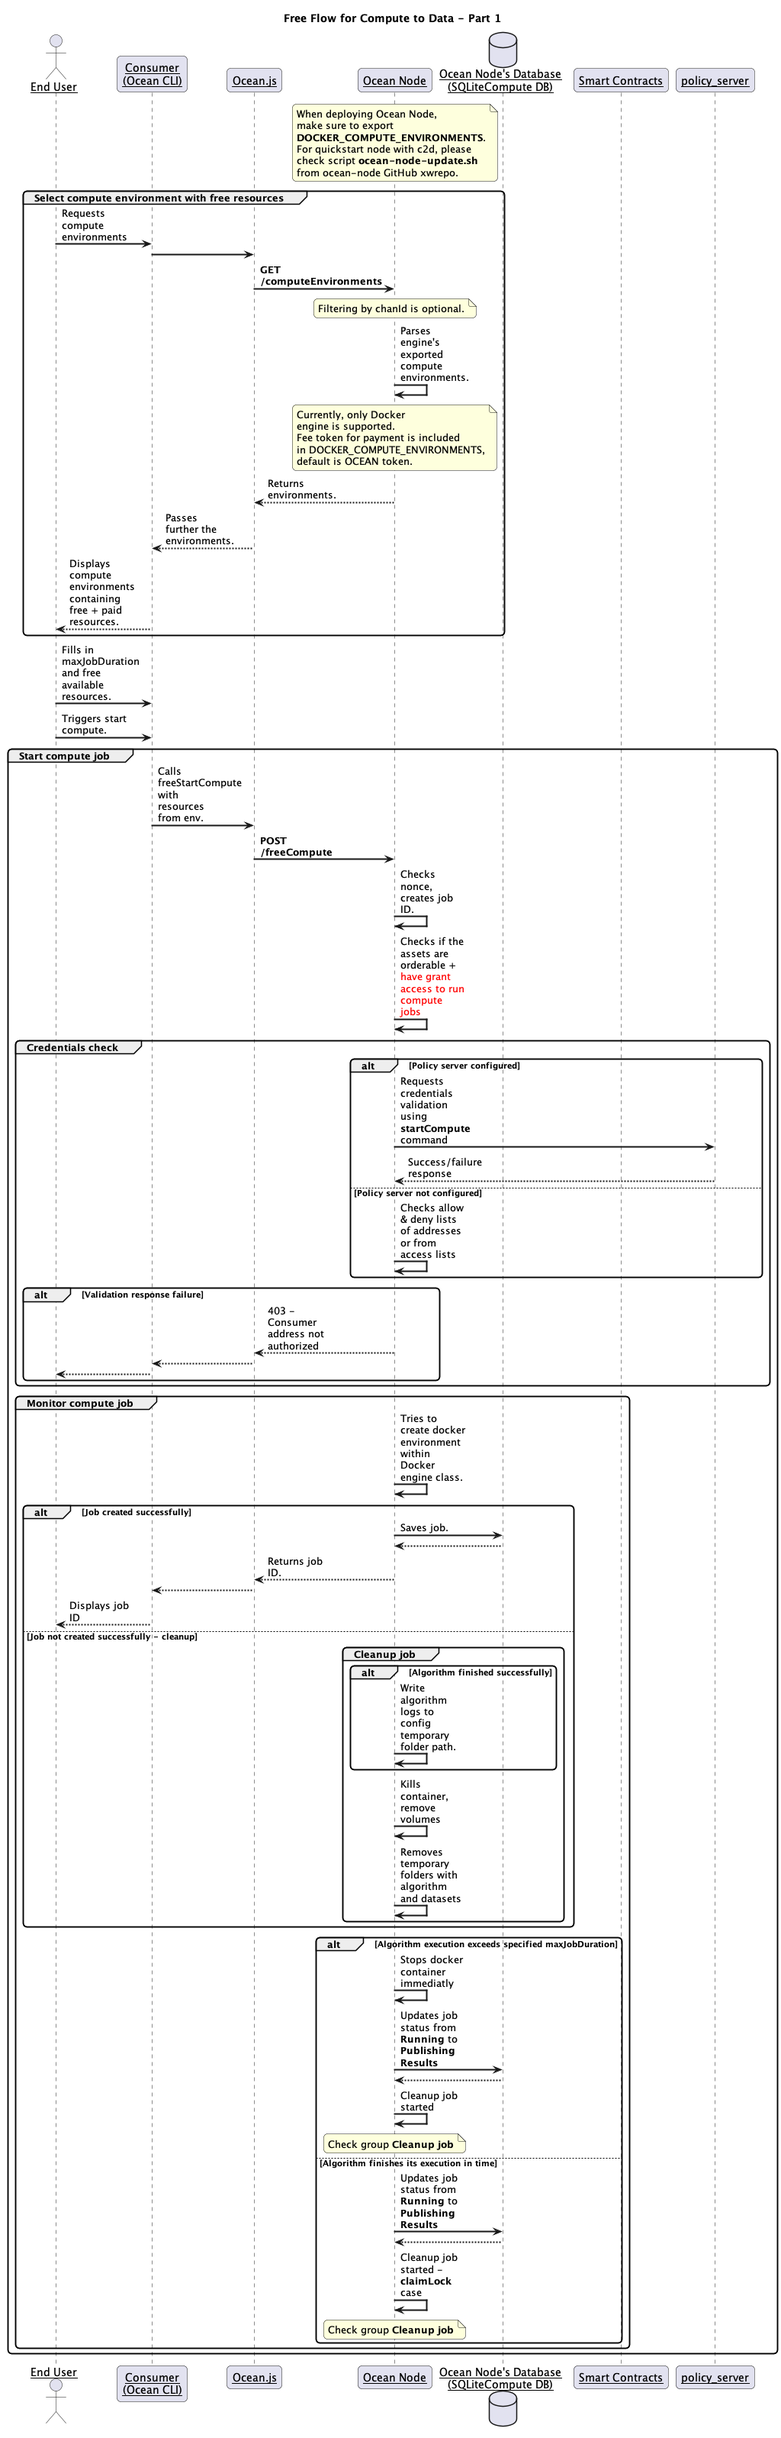
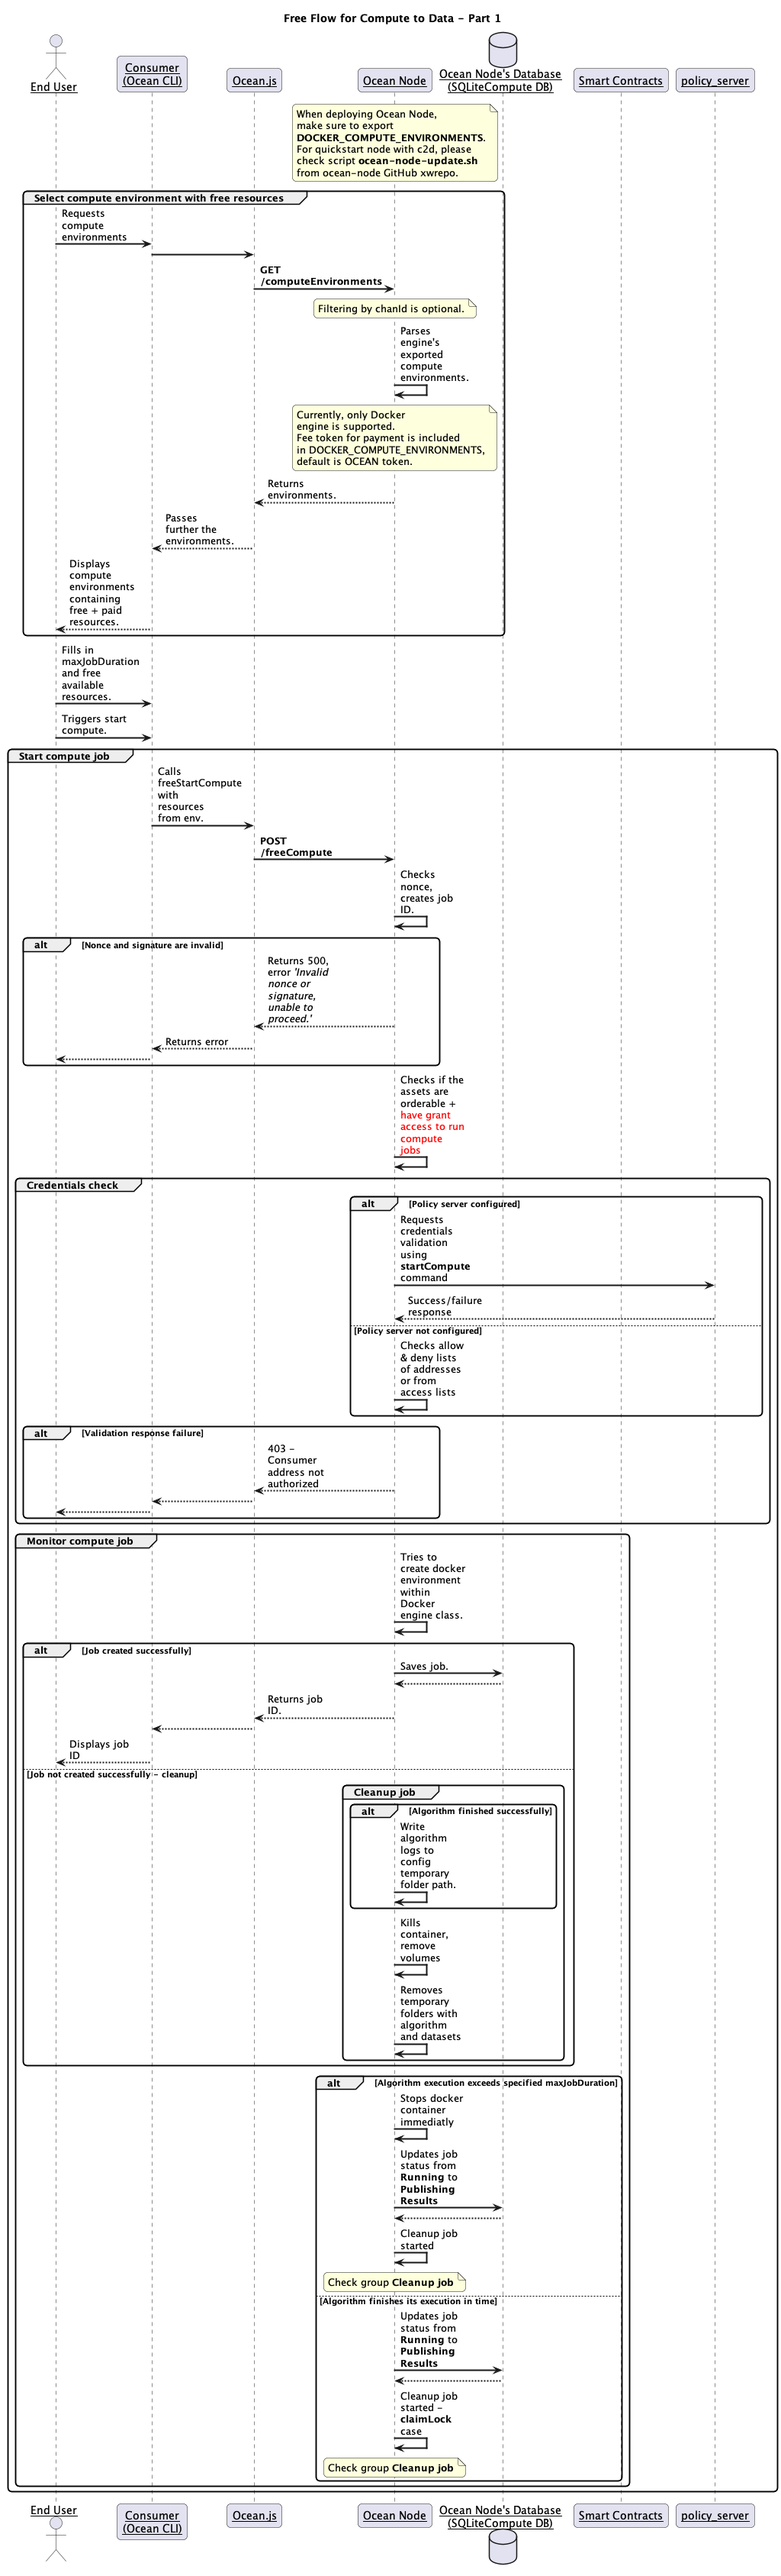
Updated flow diagrams and finished detailing free compute flow.

diff --git a/developers/compute-to-data-v2.0/free-compute-to-data-flow.md b/developers/compute-to-data-v2.0/free-compute-to-data-flow.md
@@ -39,8 +39,59 @@ The consumer tool makes a request to the node **GET /computeEnvironments** and t
 The end user selects the free resources and fills in the consumer tool together with job duration that the user considers is needed
 for the algorithm execution.
 
+### Free start compute
+#### Nonce & signature check
 Consumer tool calls through ocean.js `freeStartCompute` which requests in Ocean Node **POST /freeCompute**. Within Ocean Node,
 nonce and signature provided by ocean.js is checked. In case of invalid nonce or signature, node returns __500, 'Invalid nonce or signature, unable to proceed.'__
 
+#### Credentials check
+If the node has configured `POLICY_SERVER_URL` and ddo contains credentials, the credentials check is performed in `Policy Server`, otherwise node performs credentials check for consumer address. In case of failure, node returns back to the consumer tool __403, 'Error: Access to asset ${ddo.id} was denied'__
 
+After these checks are performed and are successful, job id is generated and C2D engine is called for the actual algorithm execution.
+
+#### C2D Docker Engine
+
+The only supported engine for start compute (free and paid) is the one for Docker.
+The following steps executed by C2D Docker engine class are:
+
+1. C2D Engine validates the Docker image by checking manifest operating system and operating system architecture with the ones from environment platform. The manifest from the Docker image is retrieved from the `tag` or `image digest hash` using Docker SDK.
+If validation is failed, Node throws error withtin the engine:
+__Unable to validate docker image__ and creation of the job stops.
+
+2. Creates the folders for datasets, algorithm and result folder of algorithm execution, such as `/data/inputs`, `/data/transformations`, `/data/ddos`, `/data/outputs`.
+
+3. Saves the job structure into `SQLite` database.
+
+4. Starts monitoring the job execution and persists journalizing the lifecycle status of the job in `SQLite` database.
+
+Whenever a job has started, an internal loop which monitors all the new jobs is triggered. The loop determines the lifecycle of a compute job execution.
+**Lifecycle of a job according to statuses:**
+
+`JobStarted` -> `PullImage` or `PullImageFailed` -> `ConfiguringVolumes` or `VolumeCreationFailed` -> `Provisioning` or `ContainerCreationFailed` -> `RunningAlgorithm` or `AlgorithmFailed` -> `PublishingResults` or `ResultsUploadFailed`
+
+**Sequence of steps for internal loop:**
+1. Pulling docker image for the algorithm - if failure -> throws error and returns back to the consumer tool and updates job status `SQLite` database in `PullImageFailed`.
+2. Configuring volumes for the dedicated algorithm container - if failure -> throws error and returns back to the consumer tool and updates job status `SQLite` database in `VolumeCreationFailed`.
+3. Create Docker container for the algorithm - if failure -> throws error and returns back to the consumer tool and updates job status `SQLite` database in `ContainerCreationFailed`.
+4. Triggers algorithm execution on dedicated container - if failure from the algorithm -> throws error and returns back to the consumer tool and updates job status `SQLite` database in `AlgorithmFailed`.
+5. Publish results in `/data/outputs` even if the algorithm execution was successful or not - if failure -> throws error and returns back to the consumer tool and updates job status `SQLite` database in `ResultsUploadFailed`.
+If publishing results step was executed successfully, the container and volumes will be deleted together with the folders
+for datasets, algorithms and results.
+
+**Observation**: If a job exceeds its specified duration, C2DEngine internal loop will terminate the allocated container and volumes which facilitates algorithm's execution and sets the job to `PublishingResults`, meaning will perform a forced cleanup of the job setup.
+
+### Get job status
+
+To display the progress to the end user, the consumer tool requests the node at **GET /compute** with job ID for the job status through ocean.js method `computeStatus`.
+
+In case of request failure from node side, the error is retruned back to the consumer tool and displayed to the end user.
+
+### Retrieve compute job results
+
+If compute job status is `PublishingResults`, consumer tool will
+call ocean.js `computeResult` method which requests from node
+on endpoint `GET /computeResult`. Node returns to ocean.js the results content and ocean.js generates a downloadable URL to pass further to the consumer tools.
+
+In case of request failure from node side, the error is retruned back to the consumer tool and displayed to the end user.
+Consumer tools received the downloadable URL and will fetch the BLOB content from it and store on end user's specified results folder path.
 
